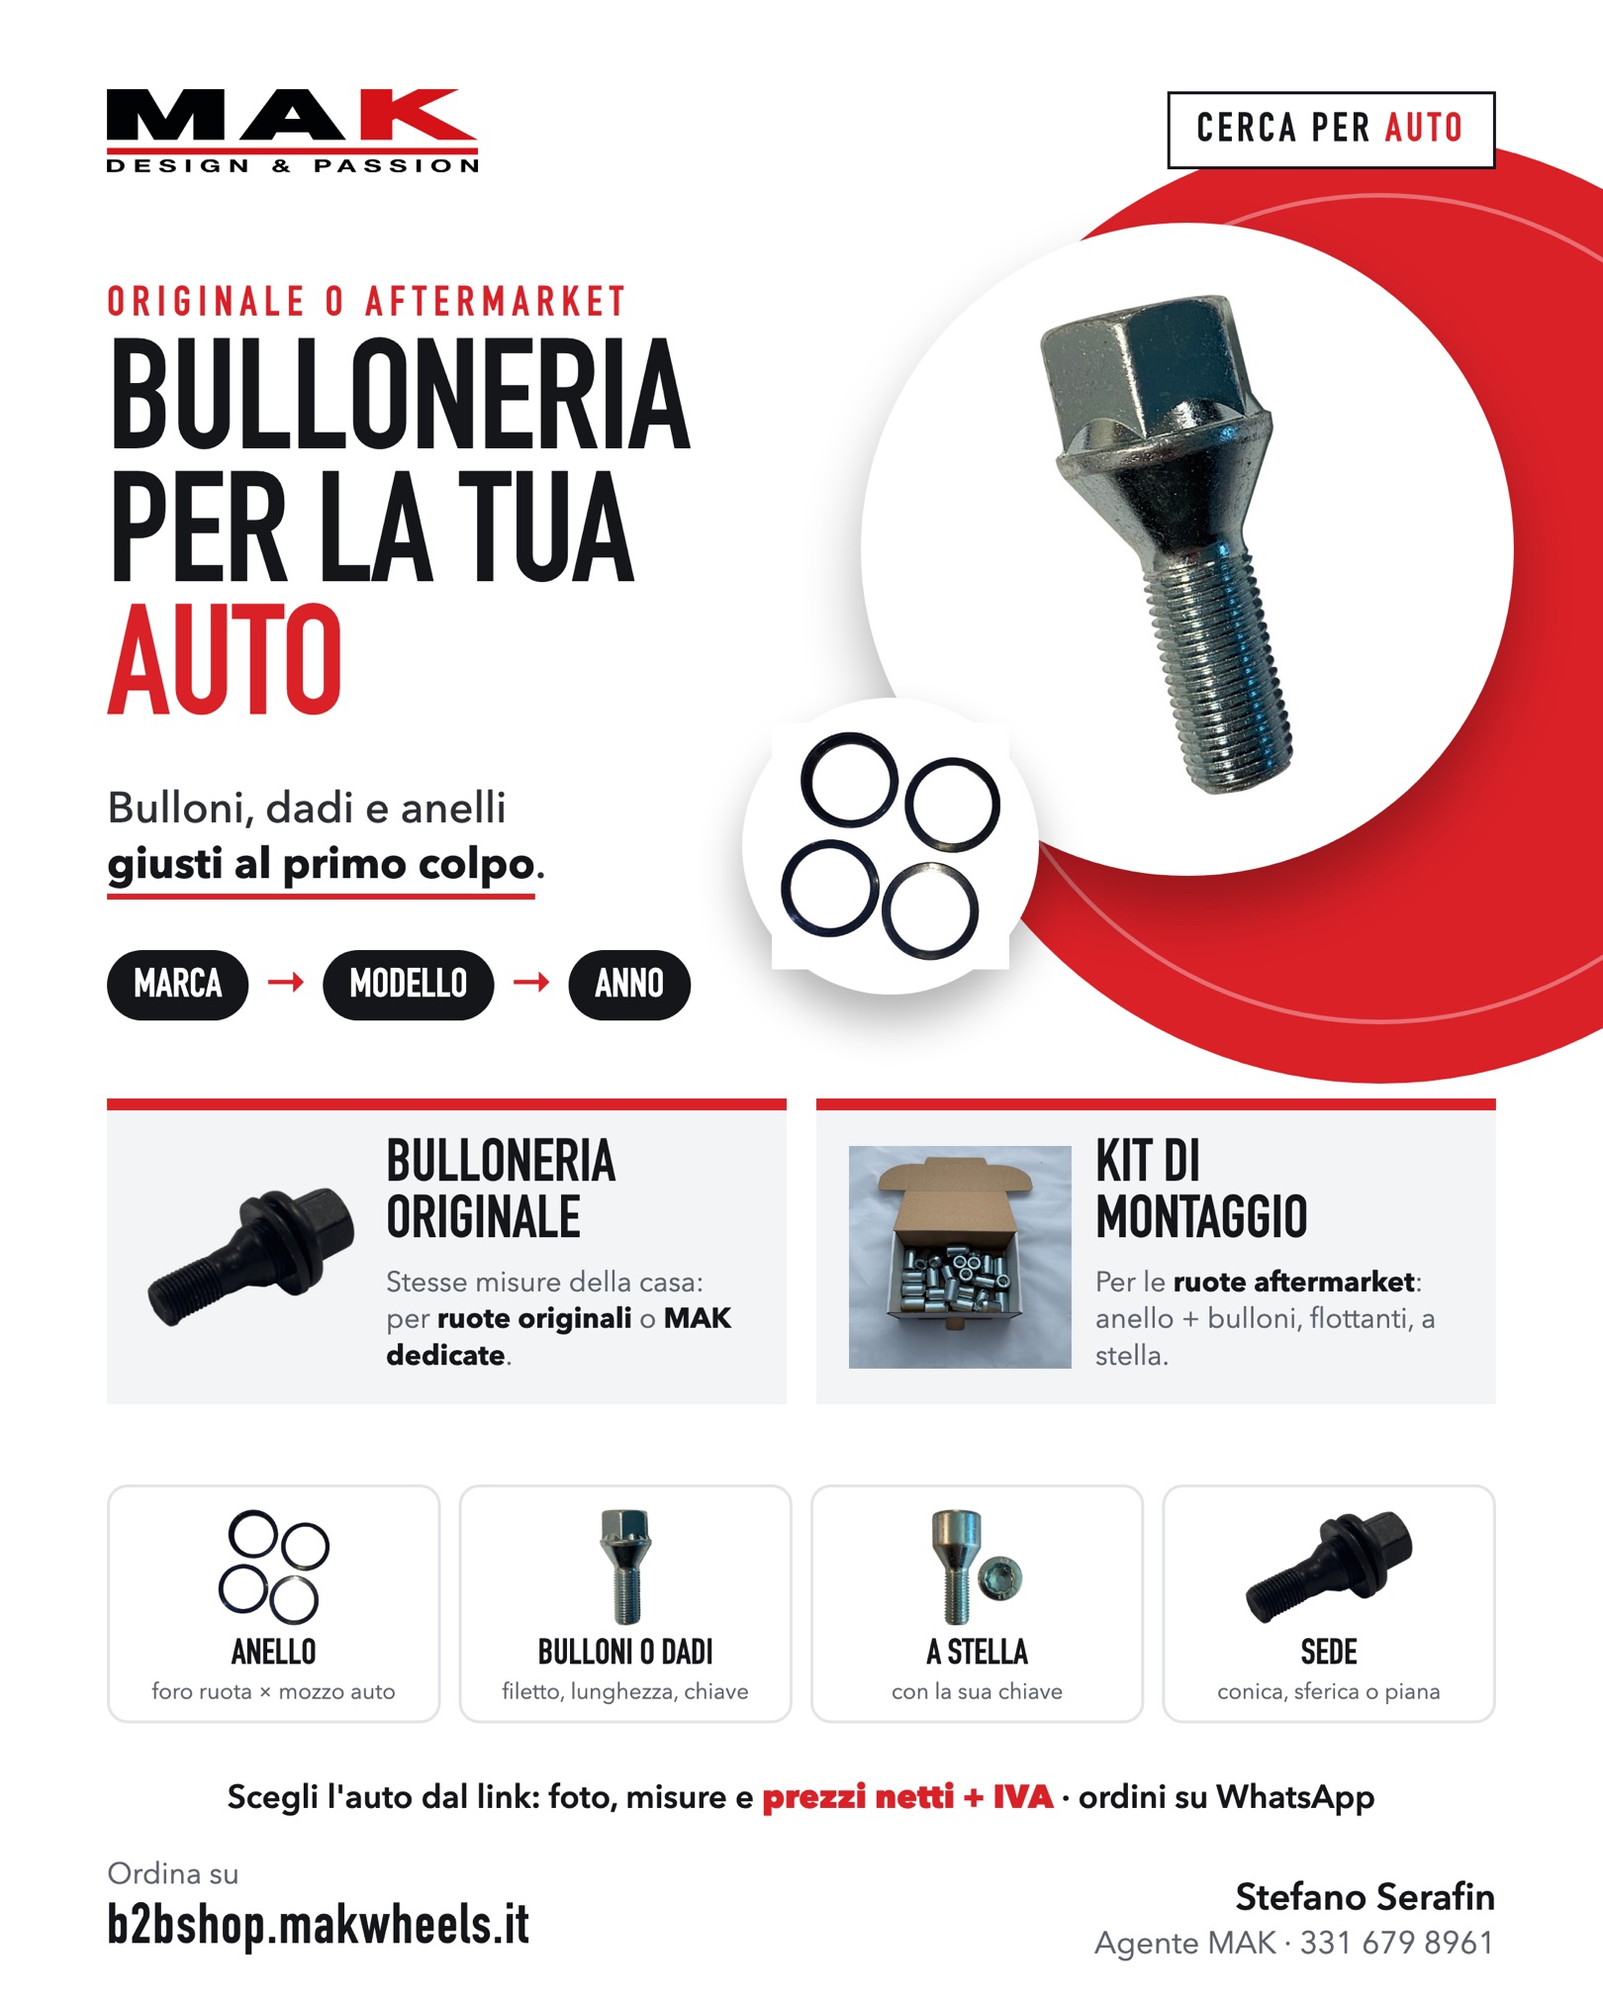
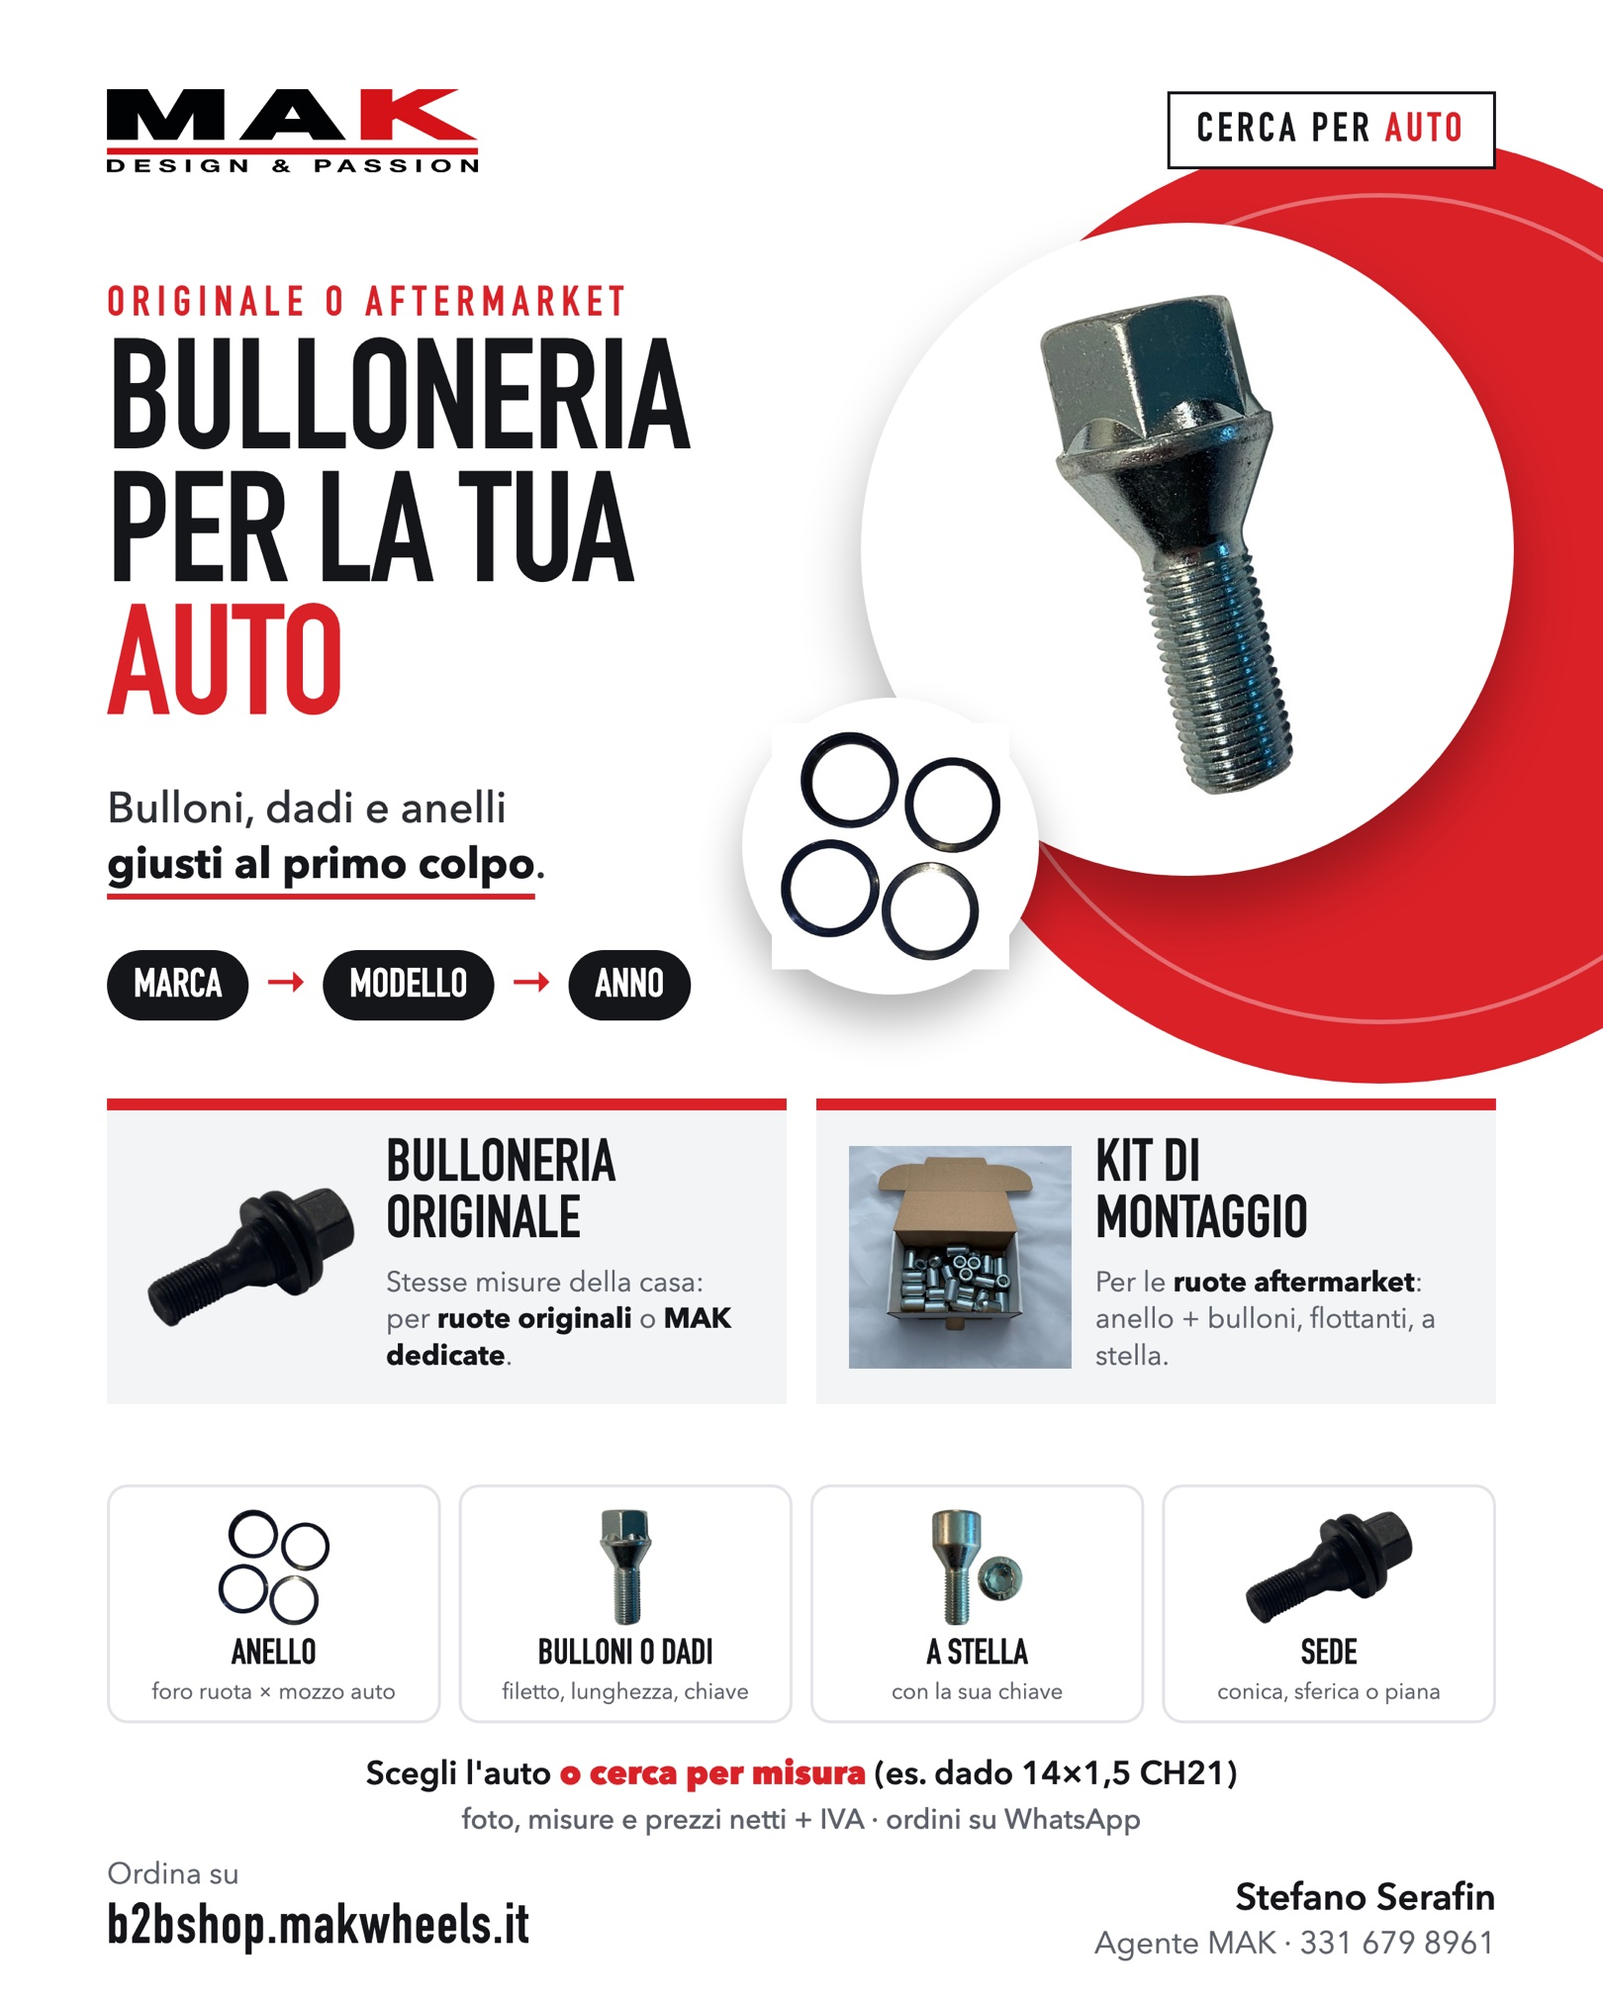
Bulloneria per la tua auto: ricerca per misura di dadi e bulloni

Changed region(s): [[0.1543, 0.8711, 0.8642, 0.9333]]

diff --git a/bulloneria-auto/index.html b/bulloneria-auto/index.html
@@ -90,6 +90,14 @@ select:disabled{opacity:.45}
 .salta{animation:salta .45s}
 @keyframes salta{30%{transform:scale(1.03)}60%{transform:scale(.99)}}
 .nota{font-size:13px;color:var(--mute);margin-top:8px}
+.tipi{position:relative;display:grid;grid-template-columns:1fr 1fr;gap:8px}
+.tipi input{position:absolute;opacity:0;pointer-events:none}
+.tipi label{display:block;text-align:center;background:#fff;border:2px solid var(--line);border-radius:12px;padding:12px 6px;font-weight:700;font-size:16px}
+.tipi input:checked+label{border-color:var(--red);color:var(--red)}
+.mis2{display:grid;grid-template-columns:1fr 1fr;gap:8px}
+.art .usa{font-size:12px;color:var(--mute);margin-top:8px}
+.art .usa b{color:var(--ink)}
+.art .trov{display:inline-block;margin-top:5px;font-size:12px;font-weight:700;background:var(--red);color:#fff;border-radius:20px;padding:2px 9px}
 
 .btns{display:grid;grid-template-columns:1fr 1fr;gap:10px}
 .btn{display:flex;align-items:center;justify-content:center;gap:8px;text-decoration:none;color:var(--ink);background:var(--card);border-radius:14px;padding:15px 10px;font-weight:600}
@@ -143,6 +151,24 @@ footer b{color:var(--ink)}
   <p class="link">Ti serve solo l'anello? <a href="../anelli-centraggio/">Anelli di centraggio sciolti →</a></p>
 </section>
 
+<section id="secMis">
+  <h2>Cerca per <em>misura</em></h2>
+  <p class="sub">Hai in mano il dado o il bullone? Scegli diametro × passo e chiave: ad esempio <b>dado 14×1,5 CH21</b> = diametro 14 mm, passo del filetto 1,5 mm, chiave 21.</p>
+  <div class="card">
+    <div class="tipi">
+      <input type="radio" name="tipo" id="tDado" value="dado" checked><label for="tDado">Dado</label>
+      <input type="radio" name="tipo" id="tBull" value="bullone"><label for="tBull">Bullone</label>
+    </div>
+    <div class="mis2">
+      <div><label class="f" for="filetto">Diametro × passo</label><select id="filetto"><option value="">Caricamento…</option></select></div>
+      <div><label class="f" for="chiave">Chiave</label><select id="chiave" disabled><option value="">Tutte</option></select></div>
+    </div>
+    <div id="boxLung" hidden><label class="f" for="lung">Lunghezza del gambo</label><select id="lung"><option value="">Tutte</option></select></div>
+    <div class="info" id="infoMis"></div>
+  </div>
+  <div id="listaMis"></div>
+</section>
+
 <section id="secOrdine" hidden>
   <h2>Il tuo <em>ordine</em></h2>
   <div class="card" id="ordine">
@@ -187,7 +213,8 @@ document.addEventListener("DOMContentLoaded", () => {
   let INDICE = null, MARCA = null, DATI = null, AUTO = null;
   const q = {};      // codice -> quantità
   const articoli = {}; // codice -> articolo (della marca caricata)
-  const schede = []; // {cod, el, campo}
+  const schede = []; // {cod, el, campo, origine}
+  const daMis = {};  // codici comparsi nella ricerca per misura
 
   const opzioni = (sel, voci, vuota) => {
     sel.innerHTML = '<option value="">' + vuota + '</option>' + voci.map(([v, t]) => '<option value="' + esc(v) + '">' + esc(t) + '</option>').join("");
@@ -232,8 +259,8 @@ document.addEventListener("DOMContentLoaded", () => {
     if (AUTO && window.conta) window.conta("ricerca", (AUTO.marca + " " + AUTO.modello + " " + AUTO.anno).slice(0, 120));
   });
 
-  function scheda(cod, pcd) {
-    const a = DATI.a[cod]; articoli[cod] = a;
+  function scheda(cod, pcd, a, origine, extra) {
+    a = a || DATI.a[cod]; articoli[cod] = a;
     if (!(cod in q)) q[cod] = 0;
     const d = document.createElement("div");
     d.className = "art";
@@ -241,8 +268,8 @@ document.addEventListener("DOMContentLoaded", () => {
     const righe = a.kf ? a.k.map((t, i) => '<li>' + (a.kf[i] ? '<img alt="" loading="lazy" src="foto/' + a.kf[i] + '">' : '<i></i>') + '<span>' + esc(t) + '</span></li>').join("") : "";
     const chips = a.kf ? "" : '<div class="chips">' + a.k.map(t => '<span>' + esc(t) + '</span>').join("") + '</div>';
     d.innerHTML = '<div class="testa"><div class="foto">' + foto + '</div><div><h3>' + esc(a.d) + '</h3><div class="c">' + cod + '</div>' +
-      (pcd ? '<span class="pcd">per ruote PCD ' + esc(pcd) + '</span>' : '') + '</div></div>' +
-      (righe ? '<ul>' + righe + '</ul>' : '') + chips +
+      (pcd ? '<span class="pcd">per ruote PCD ' + esc(pcd) + '</span>' : '') + (extra && extra.trov ? '<span class="trov">' + esc(extra.trov) + '</span>' : '') + '</div></div>' +
+      (righe ? '<ul>' + righe + '</ul>' : '') + chips + (extra && extra.usa ? '<div class="usa">Abbinato sul portale a: <b>' + esc(extra.usa) + '</b></div>' : '') +
       '<div class="giu"><span class="pr">' + (a.p ? '<b>' + euro(a.p) + '</b><small>netto + IVA</small>' : '<b style="font-size:20px">Su richiesta</b>') + '</span>' +
       '<div class="qta"><button type="button" aria-label="Meno">−</button><input type="number" inputmode="numeric" min="0" max="999" value="' + q[cod] + '" aria-label="Quantità ' + esc(a.d) + '"><button type="button" aria-label="Più">+</button></div></div>';
     const [meno, campo, piu] = d.querySelector(".qta").children;
@@ -250,18 +277,27 @@ document.addEventListener("DOMContentLoaded", () => {
     piu.addEventListener("click", () => { if (q[cod] < 999) { q[cod]++; aggiorna(); } });
     campo.addEventListener("focus", () => campo.select());
     campo.addEventListener("input", () => { q[cod] = Math.min(999, Math.max(0, parseInt(campo.value, 10) || 0)); aggiorna(true); });
-    schede.push({cod, el: d, campo});
+    schede.push({cod, el: d, campo, origine: origine || "auto"});
+    if (origine === "mis") daMis[cod] = true;
     return d;
   }
 
   const io = "IntersectionObserver" in window ? new IntersectionObserver(es => es.forEach(e => { if (e.isIntersecting) { e.target.classList.add("vis"); io.unobserve(e.target); } }), {threshold: .1}) : null;
 
+  function togli(origine) {
+    // toglie le schede di una sezione; le quantità restano solo se il codice è ancora in un'altra sezione
+    // quelle prese per misura restano nell'ordine anche cambiando ricerca o auto (si tolgono con Azzera)
+    for (let i = schede.length - 1; i >= 0; i--) if (schede[i].origine === origine) schede.splice(i, 1);
+    Object.keys(q).forEach(k => { if (!schede.some(s => s.cod === k) && !(daMis[k] && q[k] > 0)) delete q[k]; });
+  }
+  const ordineVisibile = () => { $("secOrdine").hidden = !(AUTO || schede.length || Object.values(q).some(n => n > 0)); };
+
   function mostra() {
-    schede.length = 0;
-    Object.keys(q).forEach(k => delete q[k]);  // ordine legato all'auto scelta
+    togli("auto");  // ordine legato all'auto scelta
     $("listaOE").innerHTML = ""; $("listaAM").innerHTML = "";
     const vis = !!AUTO;
-    ["secOE", "secAM", "secOrdine"].forEach(s => $(s).hidden = !vis);
+    ["secOE", "secAM"].forEach(s => $(s).hidden = !vis);
+    ordineVisibile();
     if (!vis) { $("info").textContent = ""; aggiorna(); return; }
     $("info").textContent = AUTO.v.oe.length + AUTO.v.am.length ? "" : "Per questa auto il portale non ha bulloneria a catalogo: scrivimi e la cerco io.";
     if (AUTO.v.oe.length) AUTO.v.oe.forEach(c => $("listaOE").appendChild(scheda(c)));
@@ -277,11 +313,84 @@ document.addEventListener("DOMContentLoaded", () => {
         voci.forEach(([c, pcd]) => $("listaAM").appendChild(scheda(c, pcd)));
       });
     } else $("listaAM").innerHTML = '<div class="vuoto">Nessun kit aftermarket a catalogo per questa auto: chiedimi.</div>';
-    schede.forEach(s => io ? io.observe(s.el) : s.el.classList.add("vis"));
+    schede.forEach(s => s.origine === "auto" && (io ? io.observe(s.el) : s.el.classList.add("vis")));
     aggiorna();
   }
 
+  // ---- ricerca per misura (misure.json: tutti i kit con bulloni o dadi) ----
+  let MIS = null;
+  const tipo = () => document.querySelector('input[name=tipo]:checked').value;
+  const viteTesto = v => (v.t === "dado" ? "Dado" : "Bullone") + " " + v.m + (v.x ? " " + v.x : "") + (v.l ? ", lunghezza " + v.l + " mm" : "") + (v.s ? ", sede " + v.s : "") + (v.ch ? ", chiave " + v.ch : "");
+  const ordNum = (a, b) => parseFloat(a) - parseFloat(b);
+  const viti = () => MIS ? Object.entries(MIS).flatMap(([c, a]) => a.m.map(v => [c, a, v])) : [];
+  const STELLA = "stella";
+
+  function menuMis() {
+    const t = tipo(), v = viti().filter(([, , x]) => x.t === t);
+    const fil = [...new Set(v.map(([, , x]) => x.m))].sort((a, b) => ordNum(a.slice(1), b.slice(1)) || ordNum(a.split("× ")[1].replace(",", "."), b.split("× ")[1].replace(",", ".")));
+    const prima = $("filetto").value;
+    opzioni($("filetto"), fil.map(f => [f, f.replace("M", "") .replace(" × ", " × ")]), "Scegli");
+    if (fil.includes(prima)) $("filetto").value = prima;
+    menuChiave();
+  }
+  function menuChiave() {
+    const t = tipo(), f = $("filetto").value;
+    const v = viti().filter(([, , x]) => x.t === t && x.m === f);
+    const ch = [...new Set(v.map(([, , x]) => x.x === STELLA ? STELLA : x.ch).filter(Boolean))].sort((a, b) => a === STELLA ? 1 : b === STELLA ? -1 : ordNum(a, b));
+    const prima = $("chiave").value;
+    opzioni($("chiave"), ch.map(c => [c, c === STELLA ? "a stella (chiave speciale)" : "CH " + c]), "Tutte");
+    $("chiave").disabled = !f;
+    if (ch.includes(prima)) $("chiave").value = prima;
+    menuLung();
+  }
+  function menuLung() {
+    const t = tipo(), f = $("filetto").value, ch = $("chiave").value;
+    const v = viti().filter(([, , x]) => x.t === t && x.m === f && (!ch || (ch === STELLA ? x.x === STELLA : x.ch === ch)));
+    const l = [...new Set(v.map(([, , x]) => x.l).filter(Boolean))].sort(ordNum);
+    $("boxLung").hidden = t !== "bullone" || !f || l.length < 2;
+    const prima = $("lung").value;
+    opzioni($("lung"), l.map(x => [x, x + " mm"]), "Tutte");
+    if (l.includes(prima)) $("lung").value = prima;
+    risultatiMis();
+  }
+  function risultatiMis() {
+    togli("mis");
+    $("listaMis").innerHTML = "";
+    const t = tipo(), f = $("filetto").value, ch = $("chiave").value, l = $("boxLung").hidden ? "" : $("lung").value;
+    if (!f) { $("infoMis").textContent = ""; ordineVisibile(); aggiorna(); return; }
+    const ok = x => x.t === t && x.m === f && (!ch || (ch === STELLA ? x.x === STELLA : x.ch === ch)) && (!l || x.l === l);
+    const trovati = Object.entries(MIS).filter(([, a]) => a.m.some(ok));
+    $("infoMis").textContent = trovati.length ? trovati.length + (trovati.length === 1 ? " kit contiene" : " kit contengono") + " questa misura." : "Nessun kit a catalogo con questa misura: scrivimi.";
+    [[true, "Bulloneria originale"], [false, "Kit di montaggio aftermarket"]].forEach(([oe, nome]) => {
+      const voci = trovati.filter(([, a]) => !!a.o === oe).sort((x, y) => (x[1].p || 999) - (y[1].p || 999));
+      if (!voci.length) return;
+      const h = document.createElement("div"); h.className = "gruppo"; h.innerHTML = "<b>" + nome + "</b> · " + voci.length;
+      $("listaMis").appendChild(h);
+      voci.forEach(([c, a]) => {
+        const v = a.m.find(ok);
+        const u = a.u.slice(0, 6).join(", ") + (a.u.length > 6 ? " e altre " + (a.u.length - 6) : "");
+        $("listaMis").appendChild(scheda(c, "", a, "mis", {trov: viteTesto(v), usa: u}));
+      });
+    });
+    schede.forEach(s => s.origine === "mis" && (io ? io.observe(s.el) : s.el.classList.add("vis")));
+    ordineVisibile();
+    aggiorna();
+    if (window.conta) window.conta("ricerca", ("misura " + t + " " + f + (ch ? " CH" + ch : "") + (l ? " L" + l : "")).slice(0, 120));
+  }
+  let caricaMis = null;
+  const conMis = fn => () => {
+    if (MIS) return fn();
+    caricaMis = caricaMis || fetch("misure.json").then(r => r.json()).then(j => { MIS = j; });
+    caricaMis.then(fn).catch(() => { $("infoMis").textContent = "Errore di caricamento: ricarica la pagina."; });
+  };
+  document.querySelectorAll('input[name=tipo]').forEach(r => r.addEventListener("change", conMis(menuMis)));
+  $("filetto").addEventListener("change", conMis(menuChiave));
+  $("chiave").addEventListener("change", conMis(menuLung));
+  $("lung").addEventListener("change", conMis(risultatiMis));
+  conMis(menuMis)();
+
   const scelti = () => Object.keys(q).filter(c => q[c] > 0 && articoli[c]).map(c => ({c, n: q[c], a: articoli[c]}));
+  const perMisura = c => daMis[c] && !(AUTO && (AUTO.v.oe.includes(c) || AUTO.v.am.some(([k]) => k === c)));
   const autoTesto = () => AUTO ? AUTO.marca + " " + AUTO.modello + " (" + (AUTO.anno || "") + (AUTO.tipo ? ", Tipo " + AUTO.tipo : "") + ")" : "";
 
   function aggiorna(daTastiera) {
@@ -308,8 +417,8 @@ document.addEventListener("DOMContentLoaded", () => {
     let testo, etichetta;
     if (s.length) {
       const tot = s.reduce((t, x) => t + x.n * (x.a.p || 0), 0);
-      testo = "Ciao Stefano, per la mia auto " + autoTesto() + " vorrei:\n" +
-        s.map(x => "• " + x.n + " × " + x.c + " " + x.a.d + " (" + (x.a.p ? euro(x.a.p) : "prezzo da chiedere") + ")").join("\n") +
+      testo = "Ciao Stefano, " + (AUTO && s.some(x => !perMisura(x.c)) ? "per la mia auto " + autoTesto() + " " : "") + "vorrei:\n" +
+        s.map(x => "• " + x.n + " × " + x.c + " " + x.a.d + " (" + (x.a.p ? euro(x.a.p) : "prezzo da chiedere") + ")" + (perMisura(x.c) ? " – cercato per misura" : "")).join("\n") +
         (tot ? "\nTotale: " + euro(tot) + " + IVA" : "") + "\n\nOfficina: " + off;
       etichetta = "Invia l'ordine su WhatsApp";
     } else if (AUTO) {

diff --git a/README.md b/README.md
@@ -202,4 +202,5 @@ Rigenera: `python3 _build/build.py`
 - `marche.json` (indice: marche, modelli, anni con tipo) e `dati/<codice marca>.json` (vetture → codici, articoli con descrizione, prezzo, foto, componenti), caricato solo quando si sceglie la marca. `foto/<codice>.jpg`: foto vere del B2B con lo sfondo ritagliato; le foto generiche (stessa foto su più di 3 codici) sono scartate.
 - **I dati si rifanno da `../Locandine/bulloneria-auto/`** (README lì): `scarica_b2b.py` con l'account CLIENTE della webapp preventivi (listino SD, mai l'account da agente), `scarica_foto.py`, `genera_dati.py`. Poi commit e push di questa cartella.
 - Quantità → riepilogo → WhatsApp con vettura, codici e quantità; la vettura scelta va al contatore come ricerca. Le quantità si azzerano quando cambia l'auto.
+- **Cerca per misura** (dal 2026-11-11): dado o bullone → diametro × passo → chiave (o «a stella») → lunghezza per i bulloni; mostra tutti i kit che contengono quella misura, originali e aftermarket, con le marche abbinate sul portale. Dati in `misure.json` (caricato al primo uso). Gli articoli presi per misura restano nell'ordine anche cambiando ricerca o auto e nel WhatsApp sono segnati «cercato per misura»; la ricerca va al contatore («misura dado M14 × 1,5 CH21»).
 - Locandina: `../Locandine/bulloneria-auto/locandina.html` (PNG e PDF nella stessa cartella). Anteprima: `_build/anteprima-bulloneria-auto.html`; icona: `_build/icona-bulloneria-auto.html`.
